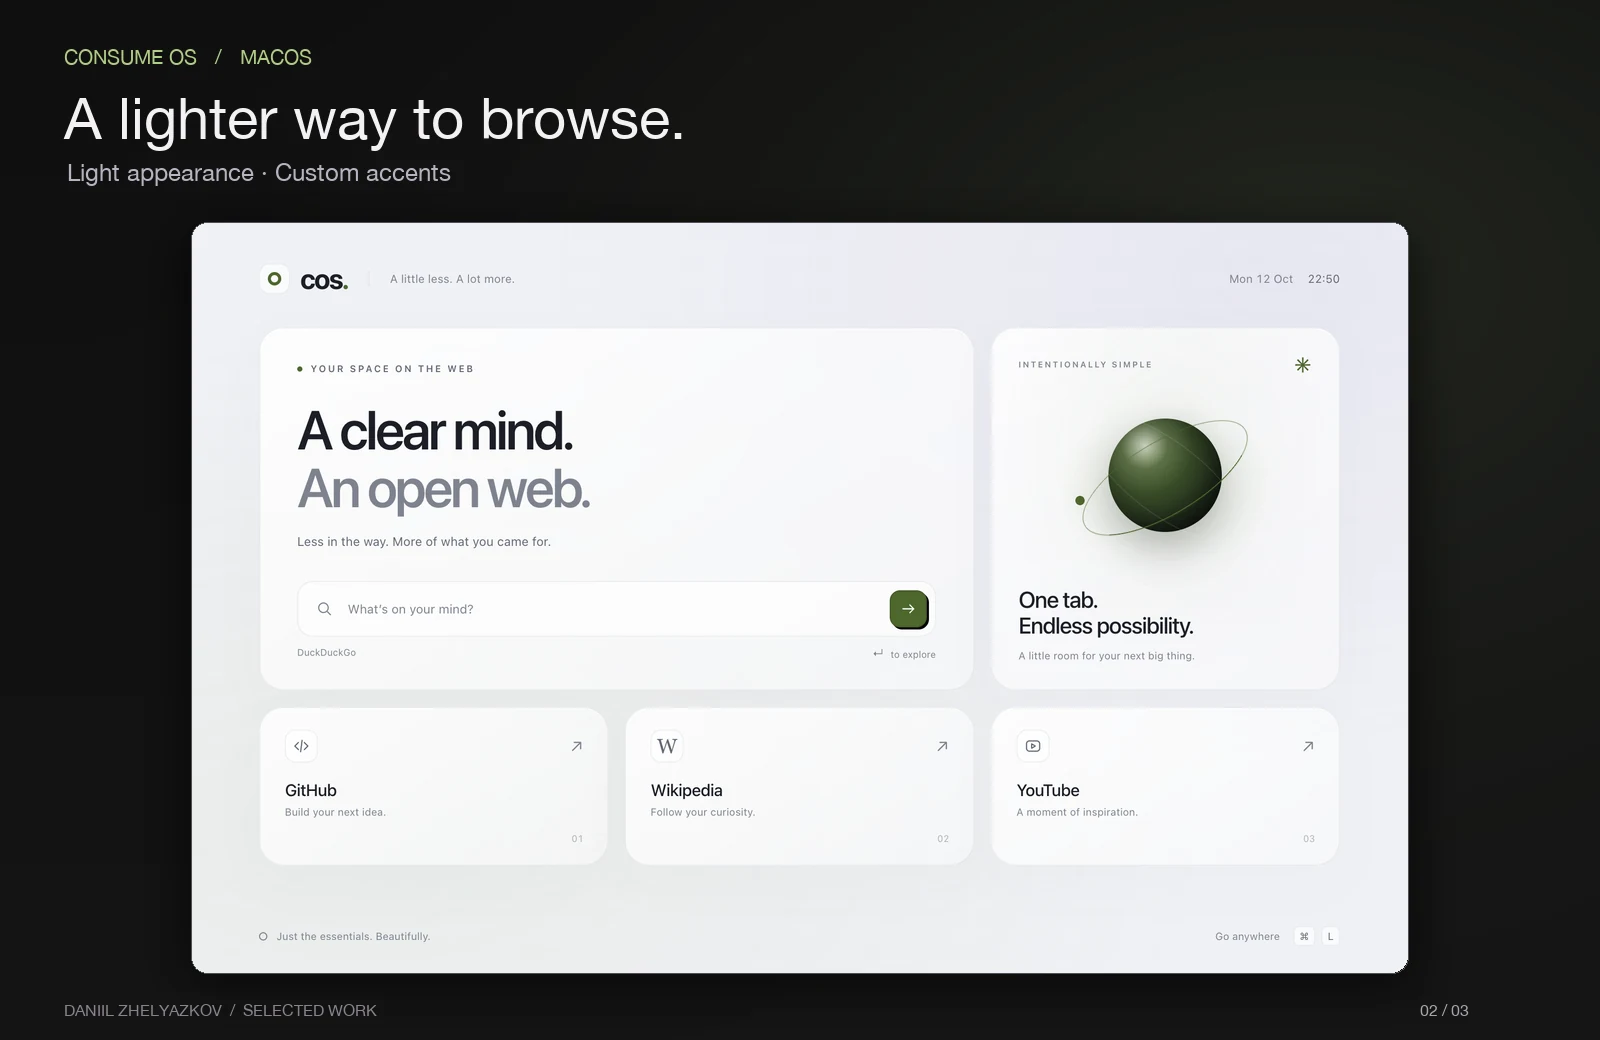
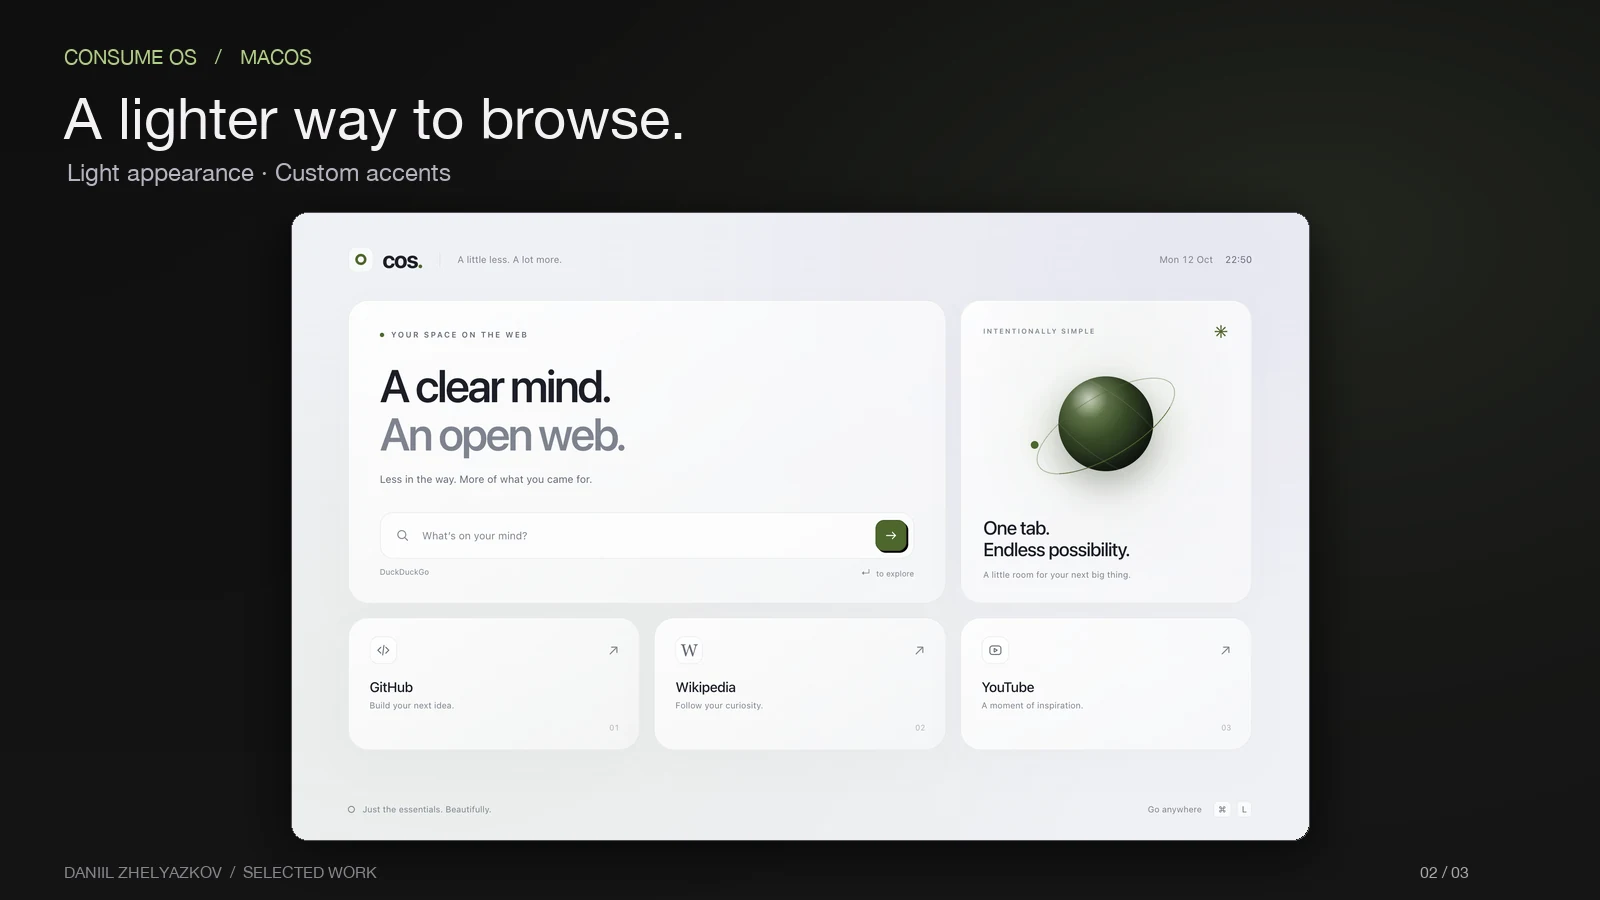
Use a consistent 16:9 format for every project showcase image

diff --git a/portfolio/components/ProjectGallery.tsx b/portfolio/components/ProjectGallery.tsx
@@ -35,8 +35,8 @@ export default function ProjectGallery({
           src={images[index].src}
           alt={images[index].alt}
           width={1600}
-          height={1040}
-          className="h-auto w-full"
+          height={900}
+          className="aspect-video w-full object-contain"
         />
       </div>
       <div className="mt-4 flex items-center justify-between gap-5">
@@ -55,8 +55,8 @@ export default function ProjectGallery({
                 src={image.src}
                 alt=""
                 width={160}
-                height={104}
-                className="h-auto w-full"
+                height={90}
+                className="aspect-video w-full object-contain"
                 loading="lazy"
               />
             </button>

diff --git a/docs/project-previews.md b/docs/project-previews.md
@@ -6,7 +6,7 @@ Review branch: `codex/private-project-previews`. This is based on the portfolio 
 
 Five entries in `portfolio/content/projects.json` link to static `/projects/<id>/` pages. The existing project carousel also shows their galleries. All repository URLs remain empty, rendered as “Repo · Coming soon”.
 
-The 14 optimised WebP images total approximately 660 KB:
+The 14 optimised WebP images total approximately 600 KB:
 
 - Maciano: two native app captures, standard Electric voice and Dream mode.
 - Keke: three native captures of quick actions, conversation and settings, using a separate temporary home directory with no real chat history.
@@ -37,3 +37,5 @@ Run `npm ci`, `npm run build`, and `npm run lint` from `portfolio`. The site use
 The production build and lint on changed TypeScript/TSX files pass. Full-repository lint has existing `react-hooks/set-state-in-effect` errors in `HoverMagnifier.tsx` and `ProjectsSection.tsx`, plus existing warnings; those files are unchanged here.
 
 Pre-merge review also verified keyboard wraparound, navigation from screenshot 3 to a two-image project, and a 320px layout without horizontal overflow. The gallery is keyed by project ID to reset selection during navigation. Thumbnail containers can shrink on narrow screens. No dependencies or animation controllers were added.
+
+All 30 project showcase images, including the older projects and Codex Meter, use a consistent 16:9 canvas. The five new app compositions were re-rendered for this format; older images were fitted with matching background padding, preserving the complete screen content. Gallery image dimensions and thumbnail frames also use 16:9.
